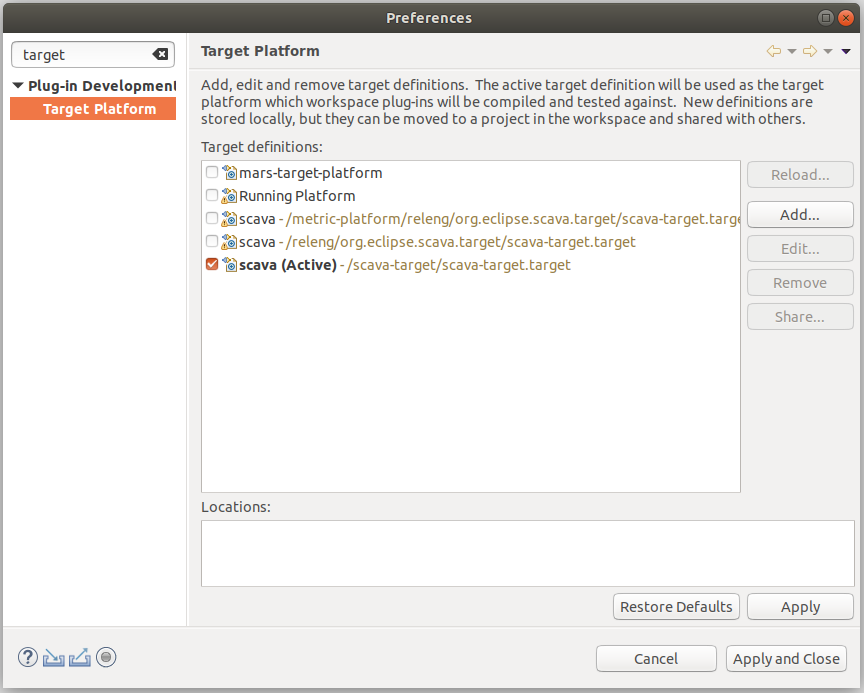
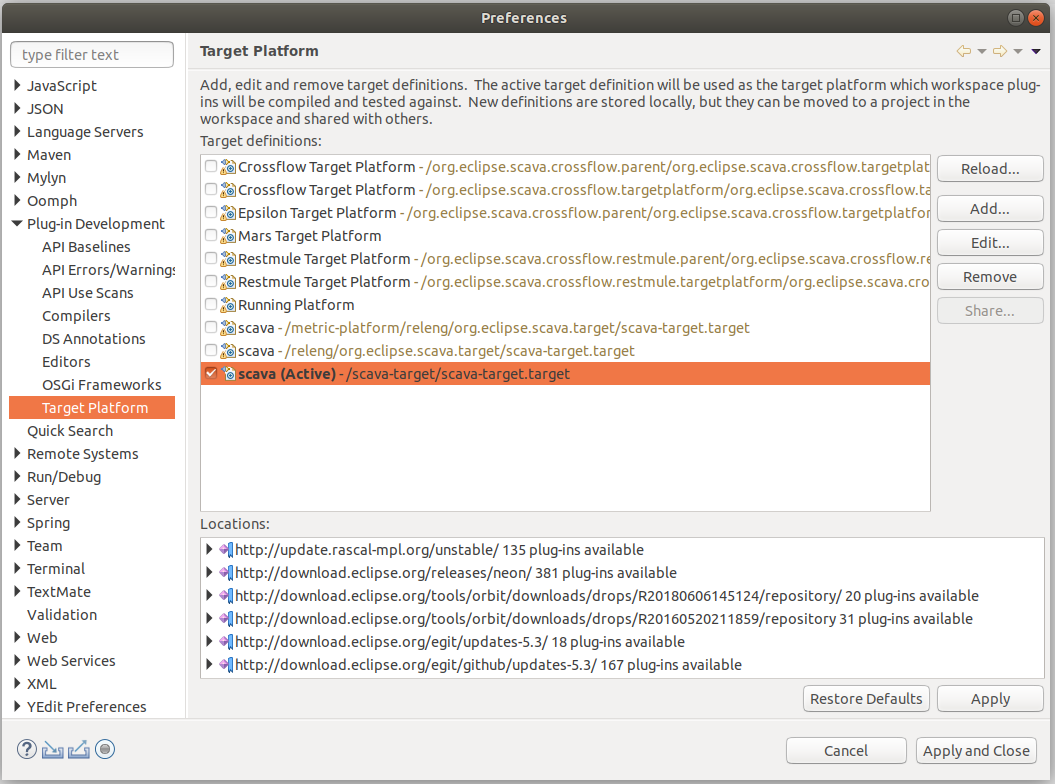
Upadte analysis-platform.md for target-platform

Changed region(s): [[0.0, 0.0, 1.0, 0.9091], [0.7188, 0.9394, 1.0, 1.0], [0.0, 0.9394, 0.125, 1.0]]

diff --git a/site/developers-guide/runing-from-sources/analysis-platform/index.html b/site/developers-guide/runing-from-sources/analysis-platform/index.html
@@ -224,7 +224,7 @@
     <a class="current" href="./">Home</a>
     <ul class="subnav">
             
-    <li class="toctree-l5"><a href="#running-the-analysis-platform-form-sources">Running the Analysis Platform form Sources</a></li>
+    <li class="toctree-l5"><a href="#running-the-analysis-platform-from-sources">Running the Analysis Platform from Sources</a></li>
     
         <ul>
         
@@ -581,15 +581,15 @@
           <div role="main">
             <div class="section">
               
-                <h1 id="running-the-analysis-platform-form-sources">Running the Analysis Platform form Sources</h1>
+                <h1 id="running-the-analysis-platform-from-sources">Running the Analysis Platform from Sources</h1>
 <p>This is a quick start guide to get the SCAVA platform running from source with Eclipse.</p>
 <h2 id="prerequisite">Prerequisite</h2>
 <h3 id="install-mongodb">Install MongoDB</h3>
-<p>You can download MongoDB from the <a href="http://www.mongodb.org/downloads">MongoDb website</a>.</p>
+<p>You can download MongoDB from the <a href="http://www.mongodb.org/downloads">MongoDB website</a>.</p>
 <h3 id="install-eclipseide">Install EclipseIDE</h3>
-<p>Although these instructions may apply to other versions of Eclipse IDE, they were tested under Eclipse Mars.2 with plug-in development support (Eclipse IDE for RCP Developers package).</p>
+<p>Although these instructions may apply to other versions of Eclipse IDE, they were tested under Eclipse 2019-06 (4.12.0) with plug-in development support (Eclipse IDE for RCP Developers package).</p>
 <h2 id="get-the-code">Get the Code</h2>
-<p>Get the latest version of the code, and checkout the <code>dev</code> branch. Please don't commit to the <code>master</code> branch: see the <a href="../../contributors-guide/contributors-guidelignes/scava-developement-process.md#source-code-repository">Development Guidelines</a>.</p>
+<p>Get the latest version of the code, and checkout the <code>dev</code> branch. Please don't commit to the <code>master</code> branch: see the <a href="../../contributors-guide/contributors-guidelignes/scava-developement-process.md#source-code-repository">Development Guidelines</a>:</p>
 <p>If you are using <strong>Linux / OS X</strong>:</p>
 <pre><code class="Shell">git clone https://github.com/eclipse-researchlabs/scava.git scava
 cd scava
@@ -608,47 +608,15 @@ git checkout dev
 
 <h2 id="configuration">Configuration</h2>
 <h3 id="configure-the-eclipse-ide">Configure The Eclipse IDE</h3>
-<h4 id="configure-the-target-platform">Configure the Target Platform</h4>
-<p>The Scava Analysis Platform is based on the Mars version of the RCP Eclipse. In order to run the platform in a newer eclipse environment, you will have to download the Eclipse Mars platform and configure it as Target Platform.</p>
-<ul>
-<li><strong>Download Eclipse Mars platform</strong></li>
-</ul>
-<p>Download the complete Eclipse Mars platform.</p>
-<p>In command ligne :</p>
-<pre><code class="Shell">./eclipse -nosplash -verbose -application org.eclipse.equinox.p2.metadata.repository.mirrorApplication -source http://download.eclipse.org/releases/mars -destination {your platform folder}
-</code></pre>
-
-<pre><code class="Shell">./eclipse -nosplash -verbose -application org.eclipse.equinox.p2.artifact.repository.mirrorApplication -source http://download.eclipse.org/releases/mars -destination {your platform folder}
-</code></pre>
-
-<p>Then, extract its context somewehere on your machine.</p>
-<ul>
-<li><strong>Download Rascal dependencies</strong></li>
-</ul>
-<p>Download two external libraries required to run the metric providers based on Rascal.</p>
-<p>Repository URL : <a href="https://update.rascal-mpl.org/unstable/plugins/">Rascal Dependencies</a></p>
-<ol>
-<li>impulse_0.3.0.xxx.jar</li>
-<li>
-<p>rascal_eclipse_0.1x.x.xxx.jar</p>
-</li>
-<li>
-<p><strong>Configure the Target Platform</strong></p>
-</li>
-</ol>
-<p>Open the Eclipse preferences <code>Window</code> -&gt; <code>Preferences</code>, then choose the Target Platform <code>Plug-in Development</code> -&gt; <code>Target Platform</code>.<br/></p>
-<p><img src="./images/eclipse_preferences_1.png" height="500px" width="500px" /></p>
-<p>Add a new Target Platform configuration for the project, choose the Default initialization then click on <code>Next</code>.<br/></p>
-<p><img src="./images/eclipse_target_platform_2.png" height="500px" width="500px" /></p>
-<p>Give a name to the new target platform, Click on <code>Add</code> button to add the Eclipse Mars dependencies and the external rascal libraries content to the target, then click on <code>Finish</code>.<br/></p>
-<p><img src="./images/eclipse_target_platform_3.png" height="500px" width="500px" /></p>
-<p>Finally, check the new target configuration, then click on <code>Apply</code> and <code>Close</code> to save the changes.<br/></p>
-<p><img src="./images/eclipse_target_platform_4.png" height="500px" width="500px" /></p>
-<h4 id="import-projects-into-the-eclipse-workspace">Import Projects into the Eclipse Workspace</h4>
-<p>Open Eclipse and import all projects from the top level directory of the Scava code <code>File</code> -&gt; <code>Import</code> -&gt; <code>Maven</code> -&gt; <code>Existing Maven Projects</code>, Select <code>Next</code> to get the Import Wizzard. Browse to find the location of the Project. Make sure the Project you want is checked, then hit <code>Finish</code> and wait for all the projects to compile without errors.</p>
-<p>Meanwhile, the Eclipse IDE would suggest you to install a set of m2e-connectors including 
-<a href="https://www.eclipse.org/tycho/">Tycho Plugin</a>.</p>
-<p><img src="./images/m2e-connectors.png" height="500px" width="500px" /></p>
+<h4 id="setup-the-target-platform-definition">Setup the Target Platform Definition</h4>
+<p>We first need to setup the target platform definition of Scava. In Eclipse, import (<code>File -&gt; Import -&gt; Existing projects into workspace</code>) the project <code>metric-platform/releng/org.eclipse.scava.target</code>. Then, go to <code>Window -&gt; Preferences -&gt; Plug-in Development -&gt; Target Platform</code> and check the <code>scava</code> target definition in the list. Confirm your selection and wait for the target platform to be resolved by Eclipse; this may take a while.</p>
+<p><img src="images/target-platform.png" height="500px" width="600px"><br/>
+Figure-01: Setup the Eclipse Target Platform.</p>
+<h4 id="import-projects-into-eclipse-workspace">Import Projects into Eclipse Workspace</h4>
+<p>Import all projects from the top level directory of the Scava code (<code>File -&gt; Import -&gt; Maven -&gt; Existing Maven Projects</code>), and wait for all the projects to compile without errors.</p>
+<p>In the case that the Eclipse IDE may trigger errors related to "Plugin execution not covered by lifecycle configuration: org.eclipse.tycho:tycho-compiler-plugin:1.1.0:compile". Right-click on one of them, select Quick Fix, let Eclipse install the appropriate M2E connectors and restart:</p>
+<p><img src="images/m2e-connectors.png" height="500px" width="500px"><br/>
+Figure-02: Install m2e-connectors plugins.</p>
 <h3 id="configure-the-analysis-platform">Configure the Analysis Platform</h3>
 <h4 id="identifieryour-name"><code>identifier=&lt;your name&gt;</code></h4>
 <p>The identifier of the node. If not specified, the platform will attempt to use the node's hostname, and if it cannot resolve the hostname, it will generated a random UUID. </p>
@@ -677,14 +645,18 @@ git checkout dev
 </code></pre>
 
 <h3 id="validate-and-run-the-platform">Validate and Run the Platform</h3>
-<p>Open <code>releng/org.eclipse.scava.product/scava.product</code>
-  * Click the <code>Validate...</code> icon in the top right of the product configuration editor (the icon is a piece of paper with a tick)
-  * If things do not validate, there's something wrong -- get in touch :) Problems related to <code>org.eclipse.e4.core.di</code> aren't critical.
-  * Then, click the <code>Export an Eclipse product</code> on the left of the <code>Validate...</code> button. Uncheck the <code>Generate p2 repository</code> checkbox, select a destination directory and validate. After a while, the SCAVA platform will be generated in the selected directory.
-  * The platform can then be run using the generated <code>eclipse</code> binary; it accepts the following arguments:
-    * <code>-apiServer</code>: Starts up the client API on localhost:8182
-    * <code>-worker ${id-worker}</code>: Spawns a thread that analyses registered projects
-  * To get a full platform running, first launch a worker thread, then the API server.</p>
+<ul>
+<li>Open <code>releng/org.eclipse.scava.product/scava.product</code>.</li>
+<li>Click the <code>Validate...</code> icon in the top right of the product configuration editor (the icon is a piece of paper with a tick).</li>
+<li>If things do not validate, there's something wrong -- get in touch :) Problems related to <code>org.eclipse.e4.core.di</code> aren't critical.</li>
+<li>Then, click the <code>Export an Eclipse product</code> on the left of the <code>Validate...</code> button. Uncheck the <code>Generate p2 repository</code> checkbox, select a destination directory and validate. After a while, the SCAVA platform will be generated in the selected directory.</li>
+<li>The platform can then be run using the generated <code>eclipse</code> binary; it accepts the following arguments:<ul>
+<li><code>-apiServer</code>: Starts up the client API on localhost:8182.</li>
+<li><code>-worker ${id-worker}</code>: Spawns a thread that analyses registered projects.</li>
+</ul>
+</li>
+<li>To get a full platform running, first launch a worker thread, then the API server.</li>
+</ul>
 <p>When starting the platform, you can pass a configuration file to control the behaviour of the platform:</p>
 <pre><code class="Shell">./eclipse -worker ${id-worker} -config myconfiguration.properties
 </code></pre>

diff --git a/site/index.html b/site/index.html
@@ -602,6 +602,7 @@
 <ul>
 <li><a href="others/">Old Stuf</a> : Documentation which must be migrated on one of the platfomrs guides</li>
 </ul>
+<p>Migrated.</p>
               
             </div>
           </div>
@@ -654,5 +655,5 @@
 
 <!--
 MkDocs version : 0.16.3
-Build Date UTC : 2020-01-29 09:43:24
+Build Date UTC : 2020-02-03 09:19:28
 -->

diff --git a/docs/developers-guide/runing-from-sources/analysis-platform/index.md b/docs/developers-guide/runing-from-sources/analysis-platform/index.md
@@ -1,4 +1,4 @@
-# Running the Analysis Platform form Sources
+# Running the Analysis Platform from Sources
 
 This is a quick start guide to get the SCAVA platform running from source with Eclipse.
 
@@ -6,15 +6,15 @@ This is a quick start guide to get the SCAVA platform running from source with E
 
 ### Install MongoDB
 
-You can download MongoDB from the [MongoDb website](http://www.mongodb.org/downloads).
+You can download MongoDB from the [MongoDB website](http://www.mongodb.org/downloads).
 
 ### Install EclipseIDE
 
-Although these instructions may apply to other versions of Eclipse IDE, they were tested under Eclipse Mars.2 with plug-in development support (Eclipse IDE for RCP Developers package).
+Although these instructions may apply to other versions of Eclipse IDE, they were tested under Eclipse 2019-06 (4.12.0) with plug-in development support (Eclipse IDE for RCP Developers package).
 
 ## Get the Code
 
-Get the latest version of the code, and checkout the `dev` branch. Please don't commit to the `master` branch: see the [Development Guidelines](../../contributors-guide/contributors-guidelignes/scava-developement-process.md#source-code-repository).
+Get the latest version of the code, and checkout the `dev` branch. Please don't commit to the `master` branch: see the [Development Guidelines](../../contributors-guide/contributors-guidelignes/scava-developement-process.md#source-code-repository):
 
 If you are using __Linux / OS X__:
 ````Shell
@@ -37,60 +37,21 @@ git checkout dev
 ## Configuration
 
 ### Configure The Eclipse IDE
-#### Configure the Target Platform
+#### Setup the Target Platform Definition
 
-The Scava Analysis Platform is based on the Mars version of the RCP Eclipse. In order to run the platform in a newer eclipse environment, you will have to download the Eclipse Mars platform and configure it as Target Platform.
+We first need to setup the target platform definition of Scava. In Eclipse, import (`File -> Import -> Existing projects into workspace`) the project `metric-platform/releng/org.eclipse.scava.target`. Then, go to `Window -> Preferences -> Plug-in Development -> Target Platform` and check the `scava` target definition in the list. Confirm your selection and wait for the target platform to be resolved by Eclipse; this may take a while.
 
-* **Download Eclipse Mars platform**
+<img src="images/target-platform.png" height="500px" width="600px"><br/>
+Figure-01: Setup the Eclipse Target Platform.
 
-Download the complete Eclipse Mars platform.
+#### Import Projects into Eclipse Workspace
 
-In command ligne :
+Import all projects from the top level directory of the Scava code (`File -> Import -> Maven -> Existing Maven Projects`), and wait for all the projects to compile without errors.
 
-````Shell
-./eclipse -nosplash -verbose -application org.eclipse.equinox.p2.metadata.repository.mirrorApplication -source http://download.eclipse.org/releases/mars -destination {your platform folder}
-````
+In the case that the Eclipse IDE may trigger errors related to "Plugin execution not covered by lifecycle configuration: org.eclipse.tycho:tycho-compiler-plugin:1.1.0:compile". Right-click on one of them, select Quick Fix, let Eclipse install the appropriate M2E connectors and restart:
 
-````Shell
-./eclipse -nosplash -verbose -application org.eclipse.equinox.p2.artifact.repository.mirrorApplication -source http://download.eclipse.org/releases/mars -destination {your platform folder}
-````
-Then, extract its context somewehere on your machine.
-
-* **Download Rascal dependencies**
-
-Download two external libraries required to run the metric providers based on Rascal.
-
-Repository URL : [Rascal Dependencies](https://update.rascal-mpl.org/unstable/plugins/)
-
-1.  impulse_0.3.0.xxx.jar
-1.  rascal_eclipse_0.1x.x.xxx.jar
-
-* **Configure the Target Platform**
-
-Open the Eclipse preferences `Window` -> `Preferences`, then choose the Target Platform `Plug-in Development` -> `Target Platform`.<br/>
-
-<img src="./images/eclipse_preferences_1.png" height="500px" width="500px" />
-
-Add a new Target Platform configuration for the project, choose the Default initialization then click on `Next`.<br/>
-
-<img src="./images/eclipse_target_platform_2.png" height="500px" width="500px" />
-
-Give a name to the new target platform, Click on `Add` button to add the Eclipse Mars dependencies and the external rascal libraries content to the target, then click on `Finish`.<br/>
-
-<img src="./images/eclipse_target_platform_3.png" height="500px" width="500px" />
-
-Finally, check the new target configuration, then click on `Apply` and `Close` to save the changes.<br/>
-
-<img src="./images/eclipse_target_platform_4.png" height="500px" width="500px" />
-
-#### Import Projects into the Eclipse Workspace
-
-Open Eclipse and import all projects from the top level directory of the Scava code `File` -> `Import` -> `Maven` -> `Existing Maven Projects`, Select `Next` to get the Import Wizzard. Browse to find the location of the Project. Make sure the Project you want is checked, then hit `Finish` and wait for all the projects to compile without errors.
-
-Meanwhile, the Eclipse IDE would suggest you to install a set of m2e-connectors including 
-[Tycho Plugin](https://www.eclipse.org/tycho/).
-
-<img src="./images/m2e-connectors.png" height="500px" width="500px" />
+<img src="images/m2e-connectors.png" height="500px" width="500px"><br/>
+Figure-02: Install m2e-connectors plugins.
 
 ### Configure the Analysis Platform
 
@@ -136,14 +97,14 @@ sudo service mongod start
 
 ### Validate and Run the Platform
 
-Open `releng/org.eclipse.scava.product/scava.product`
-  * Click the `Validate...` icon in the top right of the product configuration editor (the icon is a piece of paper with a tick)
-  * If things do not validate, there's something wrong -- get in touch :) Problems related to `org.eclipse.e4.core.di` aren't critical.
-  * Then, click the `Export an Eclipse product` on the left of the `Validate...` button. Uncheck the `Generate p2 repository` checkbox, select a destination directory and validate. After a while, the SCAVA platform will be generated in the selected directory.
-  * The platform can then be run using the generated `eclipse` binary; it accepts the following arguments:
-    * `-apiServer`: Starts up the client API on localhost:8182
-    * `-worker ${id-worker}`: Spawns a thread that analyses registered projects
-  * To get a full platform running, first launch a worker thread, then the API server.
+* Open `releng/org.eclipse.scava.product/scava.product`.
+* Click the `Validate...` icon in the top right of the product configuration editor (the icon is a piece of paper with a tick).
+* If things do not validate, there's something wrong -- get in touch :) Problems related to `org.eclipse.e4.core.di` aren't critical.
+* Then, click the `Export an Eclipse product` on the left of the `Validate...` button. Uncheck the `Generate p2 repository` checkbox, select a destination directory and validate. After a while, the SCAVA platform will be generated in the selected directory.
+* The platform can then be run using the generated `eclipse` binary; it accepts the following arguments:
+    * `-apiServer`: Starts up the client API on localhost:8182.
+    * `-worker ${id-worker}`: Spawns a thread that analyses registered projects.
+* To get a full platform running, first launch a worker thread, then the API server.
 
 When starting the platform, you can pass a configuration file to control the behaviour of the platform:
 
